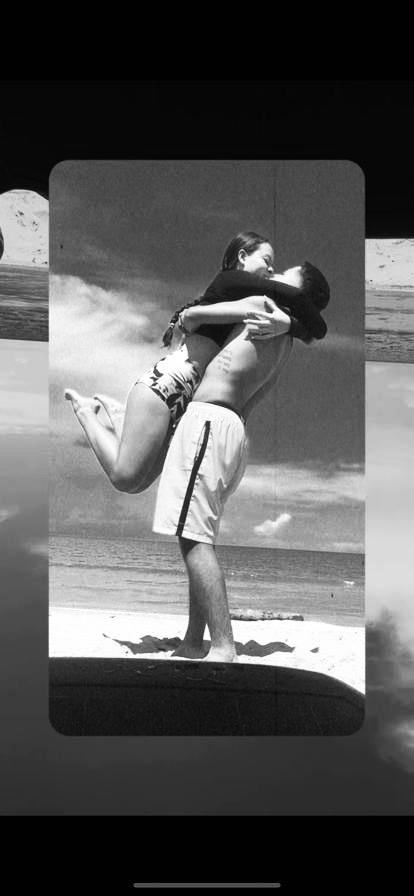
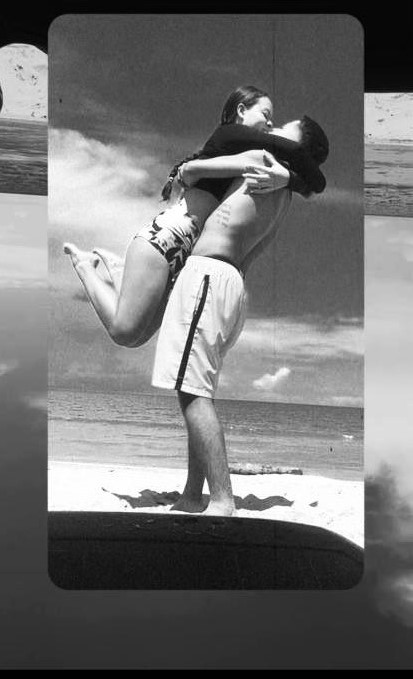
lo
git commit -mlo

diff --git a/nalesymanti/css/estilos.css b/nalesymanti/css/estilos.css
@@ -226,7 +226,7 @@ video {
 /* Slider */
 .slider {
     width: 400px;
-    max-width: 600px;
+    max-width: 800px;
     height: 500px;
     margin: 2rem auto;
     position: relative;
@@ -315,6 +315,35 @@ video {
 
 @media (min-width: 1024px) {
     .slider {
+        width: 60%;
+    }
+}
+
+.contenedor-corazon{
+    width: 90%;
+    justify-content: center;
+    justify-items: center;
+    margin-left: 25px;
+}
+.contenedor-corazon img{
+    border-radius: 30px;
+}
+@media (min-width: 768px) {
+    .btn {
+        font-size: 2rem;
+    }
+
+    .contenedor-corazon {
+        width: 80%;
+    }
+
+    .textEncabezado h2 {
+        font-size: 6rem;
+    }
+}
+
+@media (min-width: 1024px) {
+    .contenedor-corazon {
         width: 60%;
     }
 }

diff --git a/nalesymanti/index.html b/nalesymanti/index.html
@@ -88,6 +88,10 @@
         </ul>
     </div>
 
+    <div class="contenedor-corazon">
+        <img src="./img/corazon.jpg" alt="">
+    </div>
+
    
     <script src="./js/app.js"></script>
 </body>
